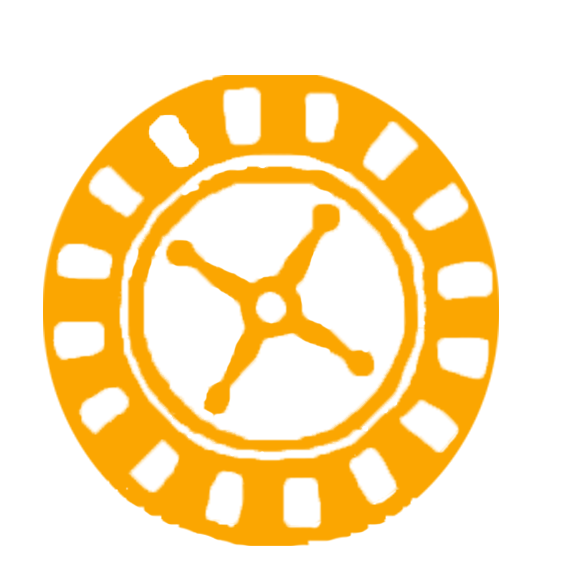
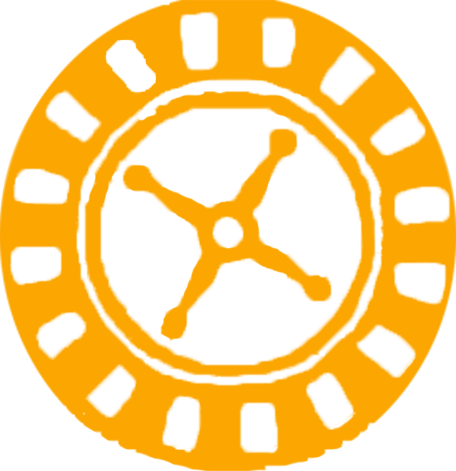
edited by remo

diff --git a/assets/css/main.css b/assets/css/main.css
@@ -8987,8 +8987,10 @@ span.add-ico{
   width: 36px;
 }
 .bago-pages .img-before-step{
-  width: 34px;
   margin-right: 5px;
+}
+.bago-pages .img-before-step img{
+  height: 33px;
 }
 .boxer-last a{
   color: #573601;
